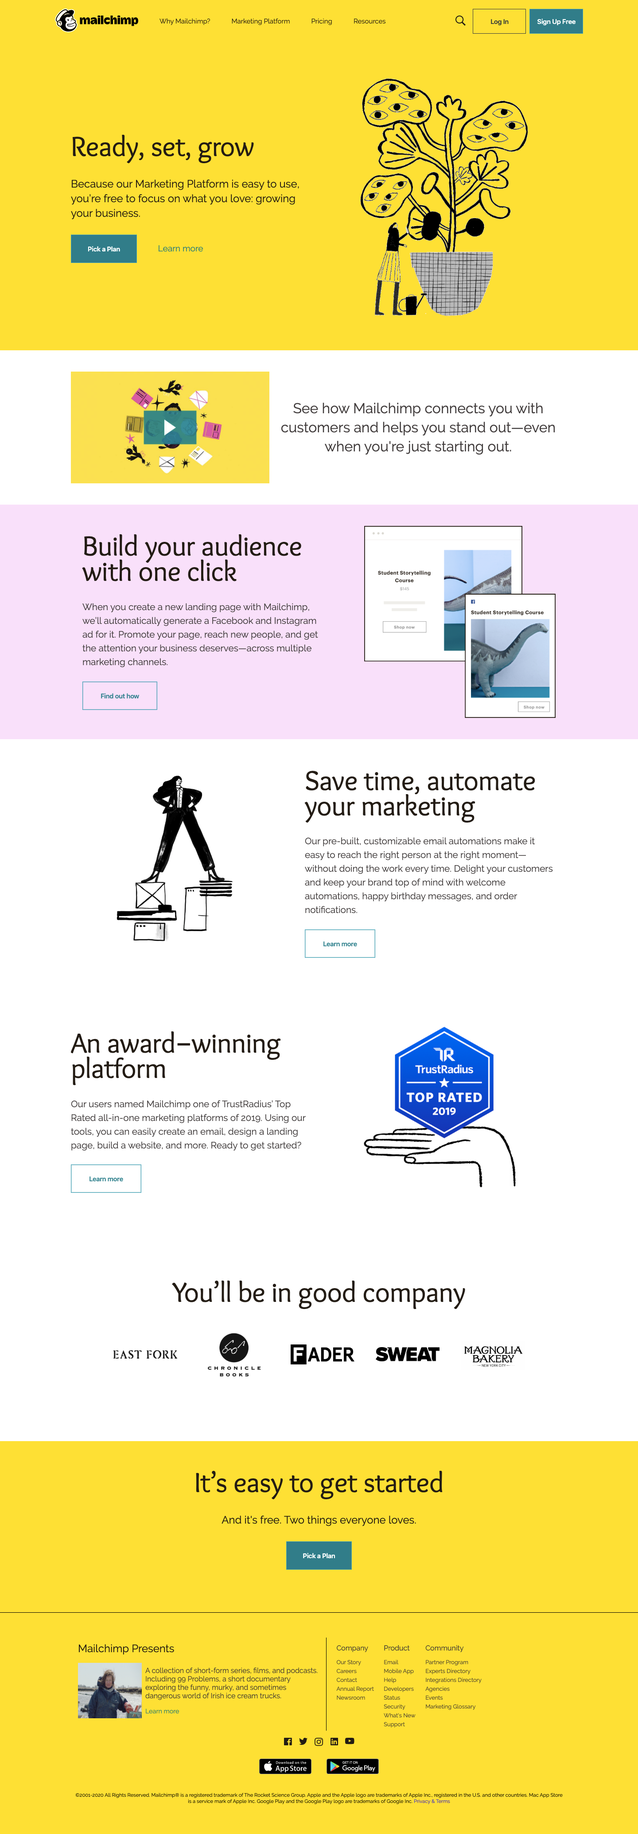
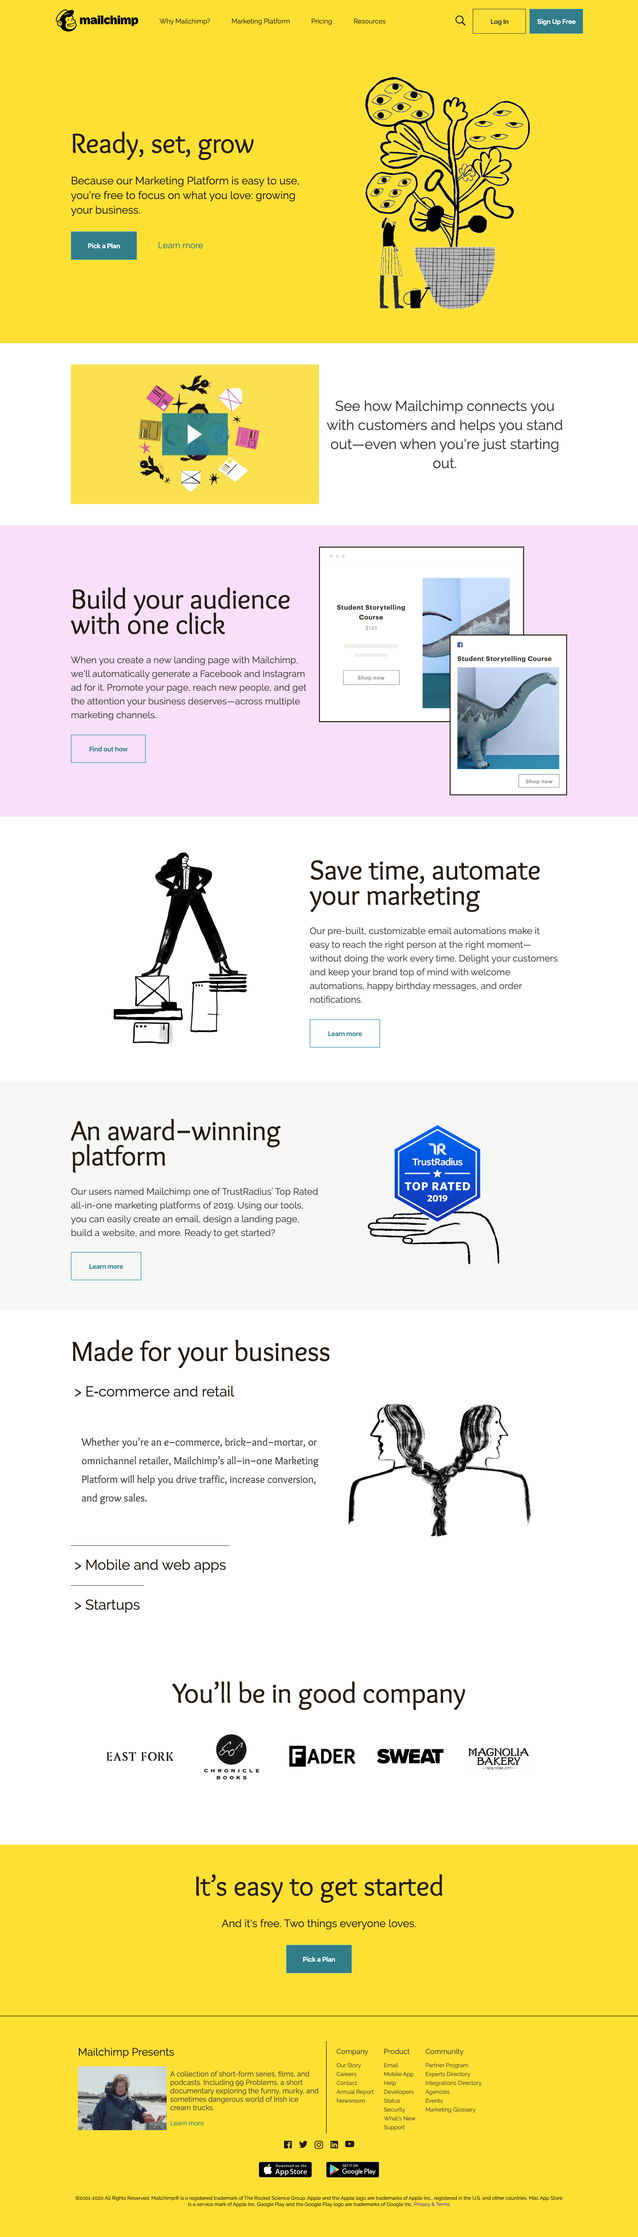
Fixed #4 and #12 issue
Now navbar is scrollable and acts just like original Mailchimp version. Also animated the mailchimp eye blinking.

diff --git a/index.html b/index.html
@@ -5,7 +5,7 @@
     <meta http-equiv="X-UA-Compatible" content="IE=edge">
     <meta name="viewport" content="width=device-width, initial-scale=1">
     <!-- The above 3 meta tags *must* come first in the head; any other head content must come *after* these tags -->
-    <title>Mailchimp</title>
+    <title>All-in-One Marketing Platform - Mailchimp</title>
 
     <!-- Bootstrap -->
     <link rel="stylesheet" href="css/style.css">
@@ -13,18 +13,10 @@
   </head>
   <body>
     
-  <div id="navbar-example2" class="nav d-sm-flex flex-row align-items-center"> <!-- nav -->
+  <div class="nav sticky-top d-sm-flex flex-row align-items-center"> <!-- nav -->
     <div class="p-2 navitem d-flex flex-row">
-      <a class="nav-link active" href="#"><svg xmlns="http://www.w3.org/2000/svg" class="brandLogo brandLogo--lockup--animated" aria-label="Mailchimp" width="188" height="60" viewBox="0 0 188 60">
+      <a class="nav-link active" style="background-color: transparent;"href="#"><svg xmlns="http://www.w3.org/2000/svg" class="brandLogo" aria-label="Mailchimp" width="188" height="60" viewBox="0 0 188 60">
         <g class="brandLogo__freddie">
-            <g class="brandLogo__freddie-outline">
-                <path d="M11.54563,30.98028a5.04364,5.04364,0,0,0-1.182.08,4.96029,4.96029,0,0,0-4.09341,5.76638c.28318,2.67235,3.13228,4.92584,5.76978,4.99292a4.42784,4.42784,0,0,0,.80886-.05371c2.85409-.462,3.60136-3.4031,3.13091-6.292C15.44835,32.21207,13.12358,31.06224,11.54563,30.98028Zm2.79659,7.728a1.19693,1.19693,0,0,1-1.11341.52628A1.50034,1.50034,0,0,1,11.847,37.72026a3.6991,3.6991,0,0,1,.28727-1.47809,1.34249,1.34249,0,0,0-.55068-1.66273,1.55527,1.55527,0,0,0-1.13523-.201,1.45893,1.45893,0,0,0-.92909.6091,3.14563,3.14563,0,0,0-.34045.75986c-.01546.04681-.02773.08347-.03705.10741-.12932.32979-.33568.4262-.47522.4083a.27226.27226,0,0,1-.215-.20145,2.799,2.799,0,0,1,.78977-2.44028,2.55945,2.55945,0,0,1,2.12682-.72794,2.51848,2.51848,0,0,1,1.93113,1.33294,2.91819,2.91819,0,0,1-.23636,2.70255c-.03227.0688-.06182.13179-.08705.18808a1.06609,1.06609,0,0,0-.02727,1.03335.76345.76345,0,0,0,.63341.30477,1.45938,1.45938,0,0,0,.34591-.04616c.14659-.03235.29818-.06578.39045.044A.21685.21685,0,0,1,14.34222,38.70832Z" fill="#fff"></path>
-                <path d="M48.018,44.18839a14.89179,14.89179,0,0,0,1.01912-4.73159c0-1.99448-1.12925-2.82117-1.84831-2.82117-.022-.077-.16421-.59707-.36008-1.22312a9.835,9.835,0,0,0-.39811-1.067,3.86356,3.86356,0,0,0,.69444-2.81634,3.56386,3.56386,0,0,0-1.03737-2.01292,8.44059,8.44059,0,0,0-3.66342-1.81186c-.20356-.05685-.87448-.2408-.93339-.2588-.00462-.03842-.049-2.1971-.08947-3.12388a10.69427,10.69427,0,0,0-.412-2.74588,7.3516,7.3516,0,0,0-1.90458-3.395c2.32445-2.40607,3.77553-5.05646,3.772-7.33017-.0066-4.37268-5.38446-5.6959-12.0116-2.95551-.00726.00308-1.39437.59027-1.40426.59532-.00616-.00615-2.53857-2.48707-2.5766-2.52044C19.30856-.611-4.31609,25.61063,3.23718,31.97912l1.65069,1.39632a8.09061,8.09061,0,0,0-.459,3.74136A7.3669,7.3669,0,0,0,6.978,41.84751a7.76153,7.76153,0,0,0,5.00217,2.01117c2.93932,6.76383,9.65505,10.913,17.5295,11.14661C37.95653,55.25576,45.04707,51.298,48.018,44.18839Zm1.73378-8.00451a5.03683,5.03683,0,0,1,1.05187,3.27292,16.44267,16.44267,0,0,1-1.13914,5.37081l-.016.04017a18.6299,18.6299,0,0,1-7.63395,8.83185A22.74119,22.74119,0,0,1,30.2641,56.78071h-.00088c-.26687,0-.53791-.00417-.80588-.01208a22.80815,22.80815,0,0,1-11.50666-3.39651,19.69691,19.69691,0,0,1-7.13406-7.83373A9.76285,9.76285,0,0,1,5.80653,43.1681a9.12379,9.12379,0,0,1-3.13541-5.87525,10.1625,10.1625,0,0,1,.19038-3.31968l-.76632-.648a6.00654,6.00654,0,0,1-2.075-4.29037,12.18256,12.18256,0,0,1,.86239-4.97326c1.57308-4.29476,5.19189-9.40874,9.681-13.68022a36.05484,36.05484,0,0,1,6.62209-5.07995A13.74927,13.74927,0,0,1,23.84953,3.155,6.16267,6.16267,0,0,1,28.0256,4.64063c.06617.05774,1.05825,1.028,1.81072,1.7651.18883-.07968.32468-.137.32864-.13851a18.87034,18.87034,0,0,1,7.0457-1.56359c4.49745,0,7.40709,2.41178,7.4128,6.14437.00352,2.30312-1.12727,4.885-3.2119,7.38439a10.19546,10.19546,0,0,1,1.27214,2.84312,12.50348,12.50348,0,0,1,.48252,3.16866c.02023.46142.04089,1.20183.0576,1.85532a9.857,9.857,0,0,1,4.14309,2.20017,5.2896,5.2896,0,0,1,1.50186,2.94607,5.429,5.429,0,0,1-.488,3.235c.04375.12556.08925.26188.13454.40632.03935.126.0765.24739.11123.36263A3.74075,3.74075,0,0,1,49.75182,36.18388Z" fill="#fff"></path>
-                <path d="M44.39731,34.00012a2.66776,2.66776,0,0,0,.83533-2.11511,1.83938,1.83938,0,0,0-.5256-1.04272,6.55815,6.55815,0,0,0-2.88371-1.38088c-.48437-.13743-.813-.22545-1.16706-.34324-.62967-.20956-.9408-.37831-1.01127-1.57522-.03076-.52346-.12109-2.34706-.1536-3.10059-.05738-1.32044-.21469-3.12529-1.32218-3.87044a1.844,1.844,0,0,0-.94713-.306,1.7718,1.7718,0,0,0-.562.05559,2.96866,2.96866,0,0,0-1.47229.84133,5.03836,5.03836,0,0,1-3.84523,1.29794c-.7752-.03287-1.59666-.15486-2.53833-.21133-.18327-.01081-.367-.02228-.55047-.032a5.075,5.075,0,0,0-4.89033,4.479c-.53913,3.75,2.14691,5.68787,2.92233,6.825a.95371.95371,0,0,1,.21338.50978.81755.81755,0,0,1-.276.53713l.00022.00111a9.67943,9.67943,0,0,0-2.0904,9.017,7.49089,7.49089,0,0,0,.39294,1.09368c1.95993,4.63059,8.04,6.78706,13.98,4.82581a14.49743,14.49743,0,0,0,2.25666-.964A11.86745,11.86745,0,0,0,44.21831,45.931a10.433,10.433,0,0,0,2.87716-5.70485c.17891-1.19338-.08312-1.65529-.43985-1.87743a1.3023,1.3023,0,0,0-.82975-.15308,11.61726,11.61726,0,0,0-.79025-2.724Z" fill="#fff"></path>
-                <path d="M34.66285,16.11585c.09585.022.15674-.14356.071-.19163a10.74733,10.74733,0,0,0-4.58165-1.199.08336.08336,0,0,1-.06551-.13324,4.66116,4.66116,0,0,1,.86217-.864.08605.08605,0,0,0-.05782-.15388A12.17129,12.17129,0,0,0,25.411,15.50605a.08448.08448,0,0,1-.1297-.08846,6.01219,6.01219,0,0,1,.57991-1.41322.08113.08113,0,0,0-.1086-.11086,22.23963,22.23963,0,0,0-6.2431,5.09444.085.085,0,0,0,.11365.1249A19.08381,19.08381,0,0,1,26.36282,16.138a18.67978,18.67978,0,0,1,8.3-.02217" fill="#fff"></path>
-                <path d="M27.67124,9.41766S25.61475,7.03683,24.994,6.86122c-3.81929-1.03061-12.06942,4.651-17.33714,12.15746-2.13145,3.03717-5.18266,8.41566-3.72366,11.182a11.15871,11.15871,0,0,0,1.74345,1.67861,6.496,6.496,0,0,1,4.10374-2.61439A33.36,33.36,0,0,1,20.31317,14.48137a53.79185,53.79185,0,0,1,7.35807-5.06371" fill="#fff"></path>
-            </g>
-    
             <g class="brandLogo__freddie-fill">
                 <path d="M14.20393,38.6051a.23038.23038,0,0,1,.02319.25959,1.13439,1.13439,0,0,1-1.07.53449,1.48858,1.48858,0,0,1-1.328-1.538,3.95469,3.95469,0,0,1,.2761-1.50142,1.403,1.403,0,0,0-.529-1.68837,1.427,1.427,0,0,0-1.091-.20429,1.39884,1.39884,0,0,0-.89259.61857,3.29879,3.29879,0,0,0-.32738.77164c-.01464.04755-.02645.08489-.0354.109-.12431.3353-.32249.43306-.45677.4151-.06348-.00878-.15077-.05123-.20672-.2047a2.95419,2.95419,0,0,1,.75912-2.47857,2.3805,2.3805,0,0,1,2.04358-.739,2.42374,2.42374,0,0,1,1.85559,1.35347,3.11052,3.11052,0,0,1-.22686,2.7449c-.03113.06959-.05962.13347-.08363.19123a1.13586,1.13586,0,0,0-.02624,1.04938.72037.72037,0,0,0,.60855.30939,1.33436,1.33436,0,0,0,.33226-.04694c.141-.03306.28668-.06694.37519.04449m34.75721.86776a14.918,14.918,0,0,1-1.01243,4.72183C44.99706,51.28918,37.953,55.23878,29.56153,54.98878c-7.82275-.23307-14.49472-4.37368-17.41482-11.12327a7.69092,7.69092,0,0,1-4.96918-2.00694A7.36067,7.36067,0,0,1,4.645,37.13776a8.10686,8.10686,0,0,1,.456-3.73347L3.46107,32.01082C-4.04265,25.65571,19.427-.51082,26.9336,6.05653c.03785.03306,2.55346,2.509,2.55977,2.5151.01-.0051,1.388-.59122,1.395-.59408,6.58386-2.73469,11.9264-1.41428,11.93311,2.949.00346,2.26918-1.43808,4.91408-3.74718,7.3149a7.34556,7.34556,0,0,1,1.8918,3.38775,10.70641,10.70641,0,0,1,.40937,2.74041c.04008.9247.08444,3.079.08891,3.11735.0586.01775.72515.20122.92719.25816a8.37148,8.37148,0,0,1,3.63954,1.80817,3.56037,3.56037,0,0,1,1.03055,2.00857,3.86821,3.86821,0,0,1-.68974,2.8104,9.87064,9.87064,0,0,1,.39553,1.0649c.19431.6249.33571,1.14347.35748,1.22041C47.83924,36.65755,48.96114,37.48245,48.96114,39.47286ZM15.8003,35.5798c-.51029-3.31286-2.74452-4.48041-4.26052-4.56368a4.59539,4.59539,0,0,0-1.13594.081c-2.70585.54755-4.23406,2.85633-3.93335,5.85633a6.06029,6.06029,0,0,0,5.54417,5.071,4.02516,4.02516,0,0,0,.77723-.05469C15.53437,41.50061,16.25239,38.51367,15.8003,35.5798Zm4.62492-21.03A53.44055,53.44055,0,0,1,27.735,9.49673S25.69227,7.121,25.07537,6.94592c-3.79418-1.02878-11.99049,4.641-17.22356,12.13163-2.11745,3.03082-5.14864,8.39816-3.69937,11.15857a11.09842,11.09842,0,0,0,1.73208,1.6751,6.45146,6.45146,0,0,1,4.077-2.60877A33.285,33.285,0,0,1,20.42522,14.5498Zm8.24636,26.21612a2.507,2.507,0,0,0,1.77074,1.85673,7.9735,7.9735,0,0,0,1.395.38c6.00176,1.03551,11.61266-2.40653,12.876-3.27347.09482-.0651.15748-.00163.08139.11327a2.00935,2.00935,0,0,1-.12371.17694c-1.54611,2.00041-5.70266,4.31694-11.11051,4.31612-2.35855-.00041-4.71587-.83388-5.5814-2.11449-1.34286-1.98714-.06654-4.88755,2.171-4.58531.00264.00041.76563.08715.98008.111A20.44025,20.44025,0,0,0,41.313,36.11224c3.05276-1.42142,4.206-2.98571,4.033-4.252a1.82239,1.82239,0,0,0-.52635-1.0353,6.58294,6.58294,0,0,0-2.88613-1.37123c-.48485-.13653-.81385-.22367-1.16829-.34081-.63012-.20817-.94162-.37572-1.01223-1.56429-.03072-.51979-.12106-2.33061-.15381-3.079-.05758-1.31122-.21466-3.10347-1.32353-3.84347a1.85369,1.85369,0,0,0-.94773-.30388,1.7886,1.7886,0,0,0-.56278.05531,2.97762,2.97762,0,0,0-1.47348.83551,5.07015,5.07015,0,0,1-3.84912,1.28878c-.77581-.03245-1.598-.15368-2.54044-.2098-.18332-.01082-.36746-.02224-.55118-.03163A5.06534,5.06534,0,0,0,23.456,26.70816c-.53959,3.72388,2.149,5.64817,2.92519,6.77735a.94255.94255,0,0,1,.21364.50633.8111.8111,0,0,1-.27631.53326v.00123a9.55589,9.55589,0,0,0-2.09221,8.95408,7.40444,7.40444,0,0,0,.39329,1.08612c1.9618,4.59837,8.04758,6.73959,13.99319,4.79184a14.58216,14.58216,0,0,0,2.25885-.95674,11.87435,11.87435,0,0,0,3.45907-2.59306,10.33241,10.33241,0,0,0,2.87982-5.6651c.179-1.18531-.083-1.64367-.44029-1.86429a1.31387,1.31387,0,0,0-.83054-.15224,11.4699,11.4699,0,0,0-.79086-2.7051,17.32336,17.32336,0,0,1-5.66259,2.82489A22.86524,22.86524,0,0,1,31.914,39.068c-1.64194-.13306-2.72823-.61388-3.13679.718a17.69976,17.69976,0,0,0,7.721.78775.13963.13963,0,0,1,.15321.12531.14918.14918,0,0,1-.08667.149S33.515,42.26837,28.67158,40.76592ZM19.73975,19.17143a18.918,18.918,0,0,1,6.69557-2.96837,18.47753,18.47753,0,0,1,8.24575-.02224c.095.02183.15565-.14327.07061-.191a10.64255,10.64255,0,0,0-4.55188-1.19674.08313.08313,0,0,1-.06511-.13286,4.64616,4.64616,0,0,1,.85678-.86224.086.086,0,0,0-.05758-.15367,12.05963,12.05963,0,0,0-5.44427,1.928.08387.08387,0,0,1-.12879-.08816,6.01049,6.01049,0,0,1,.576-1.4102.08086.08086,0,0,0-.10784-.11082,22.11786,22.11786,0,0,0-6.20217,5.08408A.0845.0845,0,0,0,19.73975,19.17143ZM35.54463,31.812a.79106.79106,0,0,0,1.03979-.1728c.15137-.293-.06842-.6904-.49116-.8878a.791.791,0,0,0-1.03979.1732C34.90189,31.2174,35.12189,31.6148,35.54463,31.812Zm1.29663-4.7514a3.58063,3.58063,0,0,0,.64021,1.457,4.08008,4.08008,0,0,1,.99558,0,3.08105,3.08105,0,0,0,.04863-1.7912c-.23894-1.0862-.56231-1.7436-1.23052-1.6414C36.62716,25.1874,36.60253,25.9744,36.84126,27.0606Zm1.42148,2.4952a.83885.83885,0,1,0,.60737.8202A.73678.73678,0,0,0,38.26274,29.5558Z"></path>
             </g>
@@ -38,23 +30,23 @@
             </g>
         </g>
     
-        <g class="brandLogo__wordMark">
+        <g class="brandLogo__wordMark scroll">
             <path d="M180.492,35.197c-1.245,0-2.16-1.578-2.16-3.778,0-2.136.941-3.777,2.117-3.777,1.51,0,2.154,1.385,2.154,3.777C182.603,33.907,182.01,35.197,180.492,35.197Zm1.49-12.085a5.07027,5.07027,0,0,0-4.624,3.283c-.367.787-.349,1.018-.617,1.018-.388,0-.066-.632.108-1.376a6.19123,6.19123,0,0,0,.082-2.582h-3.976V42.534h5.427V36.485a4.24723,4.24723,0,0,0,3.666,2.253c3.924,0,5.899-3.321,5.899-7.807,0-5.085-2.364-7.821-5.966-7.821Zm-40.519.364V38.409h5.427V23.476a5.73637,5.73637,0,0,1-2.708.534A5.81466,5.81466,0,0,1,141.463,23.476Zm-6.727-.361c-3.142,0-4.337,2.977-4.578,3.494s-.361.814-.558.808c-.343-.011-.104-.635.03-1.038a17.5802,17.5802,0,0,0,.788-5.223,6.89947,6.89947,0,0,0-.226-2.226h-4.685V38.41h5.427V30.972c0-1.212.483-3.329,1.851-3.329,1.132,0,1.487.839,1.487,2.529v8.239h5.427V30.498c0-3.838-.636-7.381-4.963-7.381Zm-19.493,7.819c0-1.344,1.249-2.567,3.541-2.567a9.9442,9.9442,0,0,1,4.958,1.476v-5.2s-1.587-1.528-5.489-1.528c-4.113,0-7.538,2.407-7.538,7.587s3.108,8.052,7.527,8.052a8.5952,8.5952,0,0,0,5.509-1.896V31.919a9.50375,9.50375,0,0,1-4.942,1.623c-2.623,0-3.567-1.207-3.567-2.607Zm-11.4-12.004h5.427V38.41h-5.427ZM87.031,34.912c-1.298.3-1.97-.1-1.97-.96,0-1.178,1.219-1.65,2.958-1.65.767,0,1.488.066,1.488.066A3.858,3.858,0,0,1,87.031,34.912Zm1.321-11.797a17.09846,17.09846,0,0,0-7.14,1.528v4.493s3.294-1.894,5.966-1.894c2.133,0,2.395,1.15,2.298,2.105a11.644,11.644,0,0,0-2.492-.163c-4.423,0-6.656,2.01-6.656,5.234,0,3.058,2.509,4.336,4.624,4.336a5.08675,5.08675,0,0,0,4.858-3.057c.289-.682.342-1.142.602-1.142.296,0,.196.33.182,1.009a10.92826,10.92826,0,0,0,.22,2.846h4.09V31.052c0-4.594-1.625-7.937-6.551-7.937Zm77.871-.003a4.59153,4.59153,0,0,0-4.11,3.09c-.303.677-.387,1.212-.633,1.212-.346,0-.115-.591-.381-1.496a3.67708,3.67708,0,0,0-3.881-2.806c-2.508,0-3.582,2.119-4.091,3.283-.348.796-.349,1.018-.617,1.018-.388,0-.066-.632.108-1.376a6.19082,6.19082,0,0,0,.082-2.582h-3.976v14.95h5.427V30.967c0-1.467.614-3.329,1.666-3.329,1.215,0,1.459.934,1.459,2.662v8.109h5.449V30.967c0-1.306.533-3.329,1.674-3.329,1.232,0,1.451,1.311,1.451,2.662v8.105h5.351V29.613c0-3.902-1.375-6.503-4.977-6.503Zm-92.114,0a4.59155,4.59155,0,0,0-4.11,3.09c-.303.677-.387,1.212-.633,1.212-.346,0-.098-.465-.381-1.496a3.73747,3.73747,0,0,0-3.881-2.806c-2.508,0-3.582,2.119-4.091,3.283-.348.796-.349,1.018-.617,1.018-.388,0-.066-.632.108-1.376a6.191,6.191,0,0,0,.082-2.582H56.61v14.95h5.427V30.967c0-1.467.614-3.329,1.666-3.329,1.215,0,1.459.934,1.459,2.662v8.109h5.449V30.967c0-1.306.533-3.329,1.674-3.329,1.232,0,1.451,1.311,1.451,2.662v8.105h5.351V29.613c0-3.902-1.375-6.503-4.977-6.503Zm66.73-2.165c0-1.19735,1.48729-2.168,3.322-2.168s3.322.97065,3.322,2.168-1.4873,2.168-3.322,2.168S140.839,22.14435,140.839,20.947ZM99.378,24.01a5.73639,5.73639,0,0,0,2.708-.534V38.409H96.659V23.476Zm-3.343-3.063c0-1.19735,1.48731-2.168,3.322-2.168s3.322.97065,3.322,2.168-1.4873,2.168-3.322,2.168S96.035,22.14435,96.035,20.947Z"></path>
         </g>
       </svg>
     </a>
     </div>
-    <div class="p-2 navitem"><a class="nav-link" href="#">Why Mailchimp?</a></div>
-    <div class="p-2 navitem"><a class="nav-link" href="#">Marketing Platform</a></div>
-    <div class="p-2 navitem"><a class="nav-link" href="#">Pricing</a></div>
-    <div class="p-2 navitem mr-auto"><a class="nav-link" href="#">Resources</a></div>
-    <div class="p-2 mr-2">
-      <svg xmlns="http://www.w3.org/2000/svg" class="icon icon--search" aria-label="Search" width="23" height="23" viewBox="0 0 23 23">
+    <div class="p-2 navitem scroll"><a class="nav-link" href="#">Why Mailchimp?</a></div>
+    <div class="p-2 navitem scroll"><a class="nav-link" href="#">Marketing Platform</a></div>
+    <div class="p-2 navitem scroll"><a class="nav-link" href="#">Pricing</a></div>
+    <div class="p-2 navitem mr-auto scroll"><a class="nav-link" href="#">Resources</a></div>
+    <div class="p-2 mr-2 scroll">
+      <svg xmlns="http://www.w3.org/2000/svg" class="icon icon--search scroll" aria-label="Search" width="23" height="23" viewBox="0 0 23 23">
         <path fill="#241C15" d="M23 20.978l-6.595-6.531c1.149-1.511 1.838-3.382 1.838-5.415 0-4.98-4.092-9.032-9.121-9.032-5.03 0-9.121 4.052-9.121 9.032s4.092 9.032 9.121 9.032c1.936 0 3.73-.605 5.208-1.628l6.628 6.563 2.042-2.022zm-20.991-11.945c0-3.883 3.191-7.043 7.112-7.043s7.112 3.159 7.112 7.043-3.191 7.043-7.112 7.043-7.112-3.159-7.112-7.043z"></path>
     </svg>
     </div>
-    <button type="button" class="mr-2 btn btn-outline-dark p-3">Log In</button>
-    <button type="button" class="mr-3 btn btn-outline-info btn-blue p-3 mr-4">Sign Up Free</button>
+    <button type="button" class="mr-2 btn btn-outline-dark p-3 scroll">Log In</button>
+    <button type="button" class="mr-3 btn btn-outline-info btn-blue p-3 mr-4 scroll">Sign Up Free</button>
   </div>
 
   <div class="d-lg-flex flex-row justify-content-around align-items-center bg-yellow"> <!-- first section -->
@@ -66,11 +58,11 @@
           <a class="a-dec" href="#">Learn more</a>
       </div>
     </div>
-    <img class="img-fluid w-50" src="https://eep.io/images/yzco4xsimv0y/4Q7xZy2d29RqzTutd6Head/2198c7cbc53b5d946adcf7d9d2be0b29/MiniSpot_Grow_INK_02-_1__New.gif?w=760&q=95" alt="A person nurturing their plant as it grows" width="500">
+    <img class="img-fluid w-50 pl-2" src="https://eep.io/images/yzco4xsimv0y/4Q7xZy2d29RqzTutd6Head/2198c7cbc53b5d946adcf7d9d2be0b29/MiniSpot_Grow_INK_02-_1__New.gif?w=760&q=95" alt="A person nurturing their plant as it grows" width="500">
   </div> 
 
   <div class="d-sm-flex flex-row justify-content-center align-items-center bg-white"> <!-- second section -->
-    <img class="img-fluid w-50" src="https://embedwistia-a.akamaihd.net/deliveries/c08ff38a7ddcb9003a234b3d23eef7d5.jpg?image_play_button_size=2x&amp;image_crop_resized=960x540&amp;image_play_button=1&amp;image_play_button_color=007c89e0" width="460">
+    <img class="img-fluid w-50 pr-2" src="https://embedwistia-a.akamaihd.net/deliveries/c08ff38a7ddcb9003a234b3d23eef7d5.jpg?image_play_button_size=2x&amp;image_crop_resized=960x540&amp;image_play_button=1&amp;image_play_button_color=007c89e0" width="460">
     <h2 class="h3-custom">See how Mailchimp connects you with customers and helps you stand out—even when you're just starting out.</h2>
   </div>
 
@@ -80,12 +72,12 @@
         <p class="pb-2 h7-custom">When you create a new landing page with Mailchimp, we’ll automatically generate a Facebook and Instagram ad for it. Promote your page, reach new people, and get the attention your business deserves—across multiple marketing channels.</p>
         <button type="button" class="btn btn-outline-info btn-light">Find out how</button>
       </div>
-    <img class="img-fluid w-50" src="https://eep.io/images/yzco4xsimv0y/6Hi5Gjw8hksQu8d2zwaZUK/a4c13044c87ab60d8fa59cd1a8f9095b/LandingPage.png?w=760&q=95" width="500" alt="A landing page and Facebook Ad displaying information about a Student Storytelling Course">
+    <img class="img-fluid w-50 pl-2" src="https://eep.io/images/yzco4xsimv0y/6Hi5Gjw8hksQu8d2zwaZUK/a4c13044c87ab60d8fa59cd1a8f9095b/LandingPage.png?w=760&q=95" width="500" alt="A landing page and Facebook Ad displaying information about a Student Storytelling Course">
   </div>
 
   <div class="d-lg-flex flex-row justify-content-around align-items-center bg-white"> <!-- fourth section -->
     <img class="img-fluid" src="https://eep.io/images/yzco4xsimv0y/7pvsybGZeshjSYvAMQfU6V/b0d4f79c044d470f2d5e3e8e397f9f00/MiniSpot_Emails_Build__1_.gif?w=760&q=95" width="500" alt="A woman standing on emails as the wind blows through her hair">
-    <div class="d-flex flex-column w-50">
+    <div class="d-flex flex-column w-50 pr-2">
       <span class="pb-3 pt-3 h2-custom">Save time, automate your marketing</span>
       <p class="pb-2 h7-custom">Our pre-built, customizable email automations make it easy to reach the right person at the right moment—without doing the work every time. Delight your customers and keep your brand top of mind with welcome automations, happy birthday messages, and order notifications.</p>
       <button type="button" class="btn btn-outline-info btn-light">Learn more</button>
@@ -93,7 +85,7 @@
   </div>
       
   <div class="d-lg-flex flex-row align-items-center bg-gray"> <!-- fifth section -->
-    <div class="d-flex flex-column w-50">
+    <div class="d-flex flex-column w-50 pr-2">
       <span class="pb-3 pt-3 h2-custom">An award‑winning platform</span>
       <p class="pb-2 h7-custom">Our users named Mailchimp one of TrustRadius’ Top Rated all-in-one marketing platforms of 2019. Using our tools, you can easily create an email, design a landing page, build a website, and more. Ready to get started?</p>
       <button type="button" class="btn btn-outline-info btn-light">Learn more</button>
@@ -183,7 +175,7 @@
     </div>
   </div>
 
-  <div class="d-lg-flex flex-column align-items-center bg-yellow" style="border-bottom: 1px solid #000;"> <!-- seventh section -->
+  <div class="d-lg-flex flex-column align-items-center bg-yellow" style="border-bottom: 1px solid #000;"> <!-- eigth section -->
     <span class="pb-3 pt-3 h2-custom">It’s easy to get started</span>
     <p class="pb-2 h6-custom">And it's free. Two things everyone loves.</p>
     <button type="button" class="btn btn-outline-info btn-blue mb-5">Pick a Plan</button>
@@ -271,6 +263,7 @@
     <script src="https://code.jquery.com/jquery-3.4.1.slim.min.js" integrity="sha384-J6qa4849blE2+poT4WnyKhv5vZF5SrPo0iEjwBvKU7imGFAV0wwj1yYfoRSJoZ+n" crossorigin="anonymous"></script>
     <script src="https://cdn.jsdelivr.net/npm/popper.js@1.16.0/dist/umd/popper.min.js" integrity="sha384-Q6E9RHvbIyZFJoft+2mJbHaEWldlvI9IOYy5n3zV9zzTtmI3UksdQRVvoxMfooAo" crossorigin="anonymous"></script>
     <script src="https://stackpath.bootstrapcdn.com/bootstrap/4.4.1/js/bootstrap.min.js" integrity="sha384-wfSDF2E50Y2D1uUdj0O3uMBJnjuUD4Ih7YwaYd1iqfktj0Uod8GCExl3Og8ifwB6" crossorigin="anonymous"></script>
+    <script src="./js/scrollableNav.js"></script>
   </body>
 </html>
 

diff --git a/css/style.css b/css/style.css
@@ -5865,11 +5865,15 @@ a, a:hover {
   padding-left: 6.25rem;
   padding-right: 6.25rem;
   background-color: #ffe01b;
+  transition: background-color 200ms linear;
+  border-bottom: 1px solid transparent;
   transform-origin: 50% 0;
 }
 
 .nav:hover {
   background-color: #FFF;
+  transition: background-color 200ms linear;
+  border-bottom: 1px solid #f6f6f4;
 }
 
 .nav-link {
@@ -5881,6 +5885,48 @@ a, a:hover {
 
 .nav-link:hover {
   color: #007c89;
+}
+
+.nav.scrolled {
+  background-color: transparent !important;
+  transition: background-color 200ms linear;
+  border-bottom: 1px solid transparent;
+}
+.nav.scrolled .scroll {
+  visibility: hidden;
+  opacity: 0;
+  transition: visibility 200ms linear, opacity 200ms linear;
+}
+
+.nav.scrolled:hover {
+  background-color: #FFF !important;
+  border-bottom: 1px solid #f6f6f4;
+}
+.nav.scrolled:hover .scroll {
+  visibility: visible;
+  opacity: 1;
+  transition: visibility 200ms linear, opacity 200ms linear;
+}
+
+.brandLogo__freddie-eye--winking {
+  opacity: 0;
+}
+
+.brandLogo__freddie-eye {
+  opacity: 1;
+}
+
+.brandLogo:hover .brandLogo__freddie {
+  animation-duration: 0.5s;
+  animation-name: moveHead;
+}
+.brandLogo:hover .brandLogo__freddie-eye--winking {
+  animation-duration: 0.5s;
+  animation-name: blinkEye;
+}
+.brandLogo:hover .brandLogo__freddie-eye {
+  animation-duration: 0.5s;
+  animation-name: blinkEyeReverse;
 }
 
 .footer-list-item, .footer-list-header {
@@ -5914,6 +5960,41 @@ a, a:hover {
 .footer-info {
   font-size: 1rem;
   color: #403b3b;
+}
+
+/*Animations*/
+@keyframes moveHead {
+  from {
+    transform: rotate(0deg);
+  }
+  50% {
+    transform: rotate(-5deg);
+  }
+  to {
+    transform: rotate(0deg);
+  }
+}
+@keyframes blinkEye {
+  from {
+    opacity: 0;
+  }
+  50% {
+    opacity: 1;
+  }
+  to {
+    opacity: 0;
+  }
+}
+@keyframes blinkEyeReverse {
+  from {
+    opacity: 1;
+  }
+  50% {
+    opacity: 0;
+  }
+  to {
+    opacity: 1;
+  }
 }
 
 /*# sourceMappingURL=style.css.map */

diff --git a/custom-css/custom.scss b/custom-css/custom.scss
@@ -167,10 +167,15 @@ a, a:hover {
     padding-left: 6.25rem;
     padding-right: 6.25rem;
     background-color: $bg_first;
+    transition: background-color 200ms linear;
+    border-bottom: 1px solid transparent;
     transform-origin: 50% 0;
+    
 }
 .nav:hover{
     background-color: $bg_second;
+    transition: background-color 200ms linear;
+    border-bottom: 1px solid $bg_gray;
 }
 .nav-link{
     color: #241c15;
@@ -180,6 +185,47 @@ a, a:hover {
 }
 .nav-link:hover{
     color: $btn_primary;
+}
+.nav.scrolled {
+    background-color: transparent !important;
+    transition: background-color 200ms linear;
+    border-bottom: 1px solid transparent;
+
+    .scroll{
+        visibility: hidden;
+        opacity: 0;
+        transition: visibility 200ms linear, opacity 200ms linear;
+    }
+}
+.nav.scrolled:hover{
+    background-color: $bg_second !important;
+    border-bottom: 1px solid $bg_gray;
+
+    .scroll{
+        visibility: visible;
+        opacity: 1;
+        transition: visibility 200ms linear, opacity 200ms linear;
+    }
+}
+.brandLogo__freddie-eye--winking{
+    opacity: 0;
+}
+.brandLogo__freddie-eye{
+    opacity: 1;
+}
+.brandLogo:hover{
+    .brandLogo__freddie{
+        animation-duration: .5s;
+        animation-name: moveHead;
+    }
+    .brandLogo__freddie-eye--winking{
+        animation-duration: .5s;
+        animation-name: blinkEye;
+    }
+    .brandLogo__freddie-eye{
+        animation-duration: .5s;
+        animation-name: blinkEyeReverse;
+    }
 }
 //Sections
 
@@ -210,4 +256,22 @@ a, a:hover {
 .footer-info{
     font-size: 1rem;
     color: #403b3b;
+}
+
+
+/*Animations*/
+@keyframes moveHead {
+    from {transform: rotate(0deg);}
+    50%{transform: rotate(-5deg);}
+    to {transform: rotate(0deg);}
+}
+@keyframes blinkEye {
+    from {opacity: 0;}
+    50%{opacity: 1;}
+    to {opacity: 0;}
+}
+@keyframes blinkEyeReverse {
+    from {opacity: 1;}
+    50%{opacity: 0;}
+    to {opacity: 1;}
 }

diff --git a/js/scrollableNav.js b/js/scrollableNav.js
@@ -1,0 +1,20 @@
+let lastScrollTop = 0;
+$(function () {
+  $(document).scroll(function () {
+    let $nav = $(".nav");
+    let st = $(this).scrollTop();
+    console.log(st);
+    if (st > lastScrollTop){
+      $nav.toggleClass('scrolled', $(this).scrollTop() > $nav.height());
+      $nav.css('border-bottom', '1px solid transparent')
+    } else {
+      $nav.removeClass('scrolled', $(this).scrollTop() > $nav.height());
+      if(st < 10){
+        $nav.css({'background-color': '#ffe01b', 'border-bottom': '1px solid transparent'});
+      } else {
+        $nav.css({'background-color': '#FFF', 'border-bottom': '1px solid #f6f6f4'});
+      }
+    }
+    lastScrollTop = st;
+  });
+});
